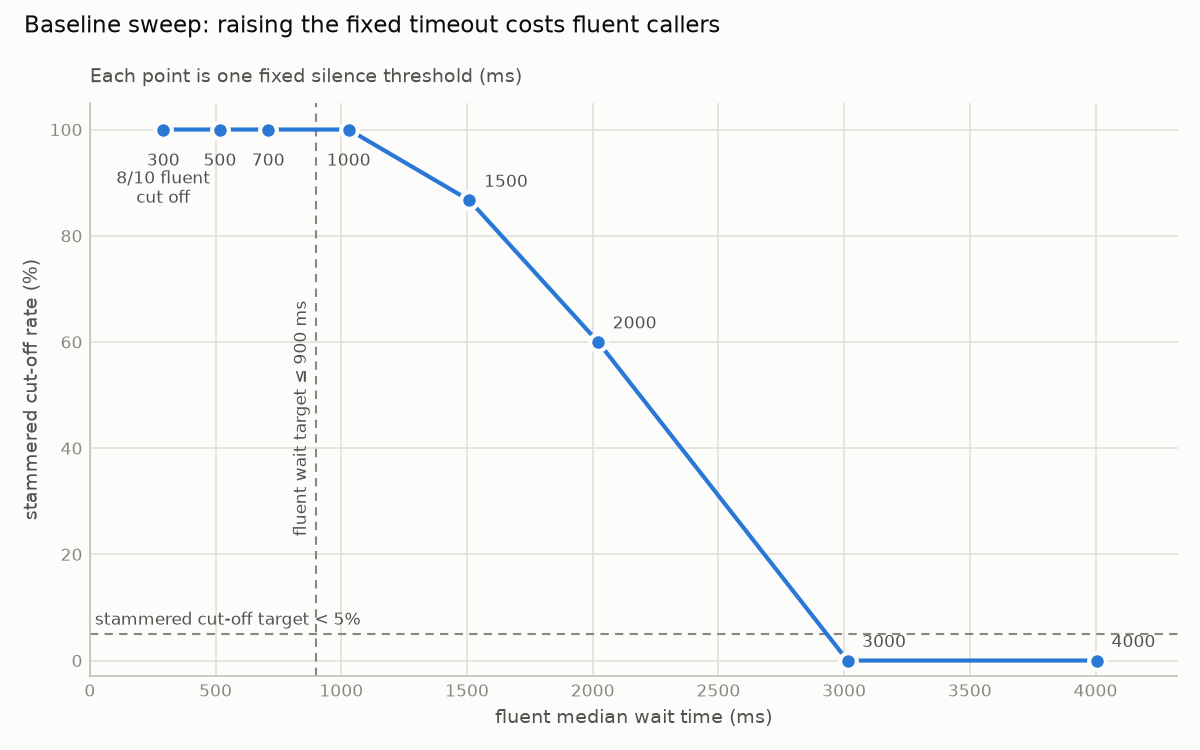
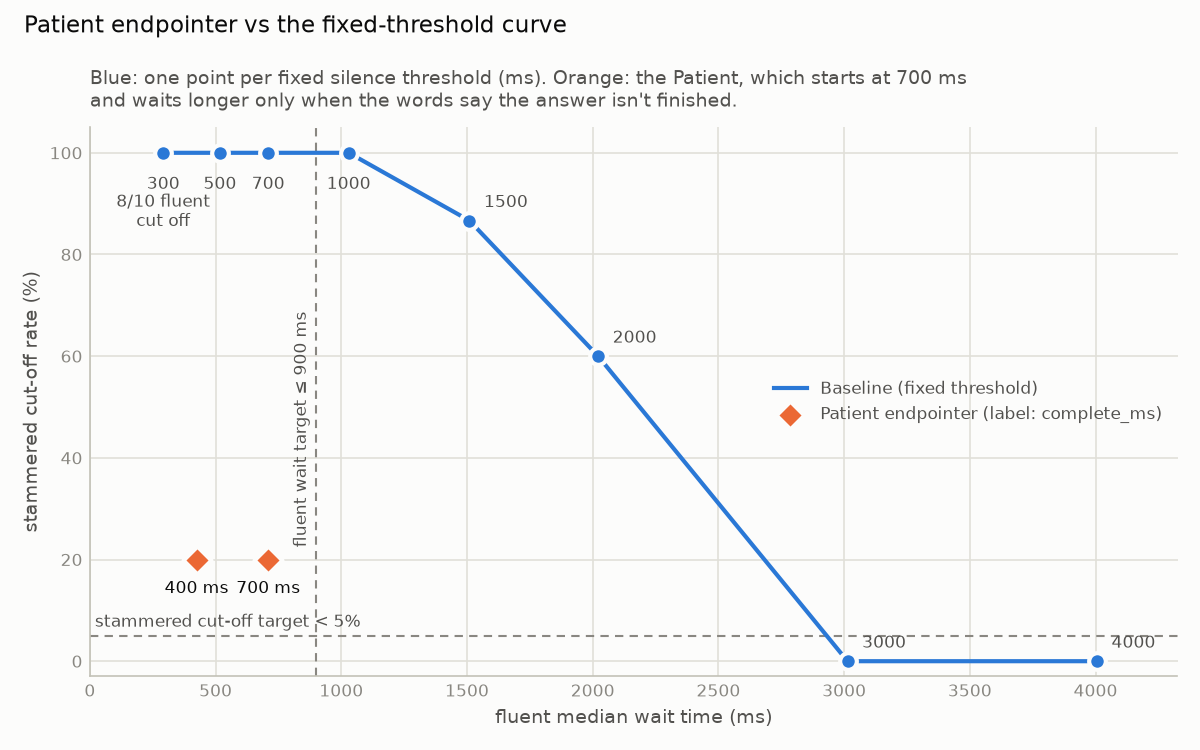
docs(05): Patient results at complete_ms 700 and 400 on the sweep chart"

diff --git a/eval/results/results.md b/eval/results/results.md
@@ -1,0 +1,61 @@
+# Results: Patient endpointer vs the Baseline
+
+Generated by `uv run python -m eval.sweep`; do not edit by hand. Interpretation: [discussion.md](discussion.md).
+
+44 clips from the manifest, same VAD, frames and scoring as [the Baseline sweep](sweep.md).
+`complete_ms` is the silence that ends a COMPLETE answer; base patience is 700 ms.
+
+## Summary
+
+| endpointer | stammered cut-off (target < 5%) | fluent median wait (ms, target ≤ 900) | fluent p95 wait (ms) | fluent cut-off | pauses cut-off | both targets met |
+| --- | ---: | ---: | ---: | ---: | ---: | :---: |
+| Baseline 700 ms | 100% (30/30) | 710 | 722 | 0% (0/10) | 100% (4/4) | ❌ |
+| Baseline 3000 ms (first to meet the stammered target) | 0% (0/30) | 3014 | 3026 | 0% (0/10) | 0% (0/4) | ❌ |
+| **Patient, complete 700 ms** | 20% (6/30) | 710 | 722 | 0% (0/10) | 100% (4/4) | ❌ |
+| **Patient, complete 400 ms** | 20% (6/30) | 424 | 707 | 0% (0/10) | 100% (4/4) | ❌ |
+
+![Patient vs the fixed-threshold curve](sweep.png)
+
+## Per group
+
+### Patient, complete 700 ms
+
+| group | clips | cut-off rate | no end | wait median (ms) | wait p95 (ms) |
+| --- | ---: | ---: | ---: | ---: | ---: |
+| fluent | 10 | 0% (0/10) | 0 | 710 | 722 |
+| stammered | 30 | 20% (6/30) | 0 | 714 | 724 |
+| pauses | 4 | 100% (4/4) | 0 | - | - |
+
+### Patient, complete 400 ms
+
+| group | clips | cut-off rate | no end | wait median (ms) | wait p95 (ms) |
+| --- | ---: | ---: | ---: | ---: | ---: |
+| fluent | 10 | 0% (0/10) | 0 | 424 | 707 |
+| stammered | 30 | 20% (6/30) | 0 | 426 | 706 |
+| pauses | 4 | 100% (4/4) | 0 | - | - |
+
+## Every Patient miss
+
+| clip | outcome | at complete_ms | reason at the END |
+| --- | --- | --- | --- |
+| clips/stammered/R2_v1.wav | cut_off | 700, 400 | silence 704ms >= patience 700ms: unsure: free text |
+| clips/stammered/R2_v2.wav | cut_off | 700, 400 | silence 704ms >= patience 700ms: unsure: free text |
+| clips/stammered/R2_v3.wav | cut_off | 700, 400 | silence 704ms >= patience 700ms: unsure: free text |
+| clips/stammered/C1_v1.wav | cut_off | 700, 400 | silence 704ms >= patience 700ms: unsure: nothing heard |
+| clips/stammered/C1_v2.wav | cut_off | 700, 400 | silence 704ms >= patience 700ms: unsure: nothing heard |
+| clips/stammered/C1_v3.wav | cut_off | 700, 400 | silence 704ms >= patience 700ms: unsure: nothing heard |
+| clips/pauses/P_A2.wav | cut_off | 700, 400 | silence 704ms >= patience 700ms: unsure: no transcript (timing only) |
+| clips/pauses/P_A4.wav | cut_off | 700, 400 | silence 704ms >= patience 700ms: unsure: no transcript (timing only) |
+| clips/pauses/P_D1.wav | cut_off | 700, 400 | silence 704ms >= patience 700ms: unsure: no transcript (timing only) |
+| clips/pauses/P_R1.wav | cut_off | 700, 400 | silence 704ms >= patience 700ms: unsure: no transcript (timing only) |
+
+## Caveats
+
+- Transcripts are an oracle, not STT: each piece's exact text appears 300 ms after its speech
+  ends, lowercased and without punctuation. Real STT (ticket 06) adds mishearings and its own latency.
+- A COMPLETE answer can only end the Turn once its last words are in the transcript, so no wait here is
+  shorter than 300 ms, whatever `complete_ms` is.
+- Pauses clips (P_*) have no piece timing and get `transcript=None`: timing-only, the same rule as the
+  700 ms Baseline.
+- The oracle text has no repeated words and every clip is one Turn, so the repetition bonus and call
+  memory never fire in this run. They are tested only in `tests/test_patient.py`.
